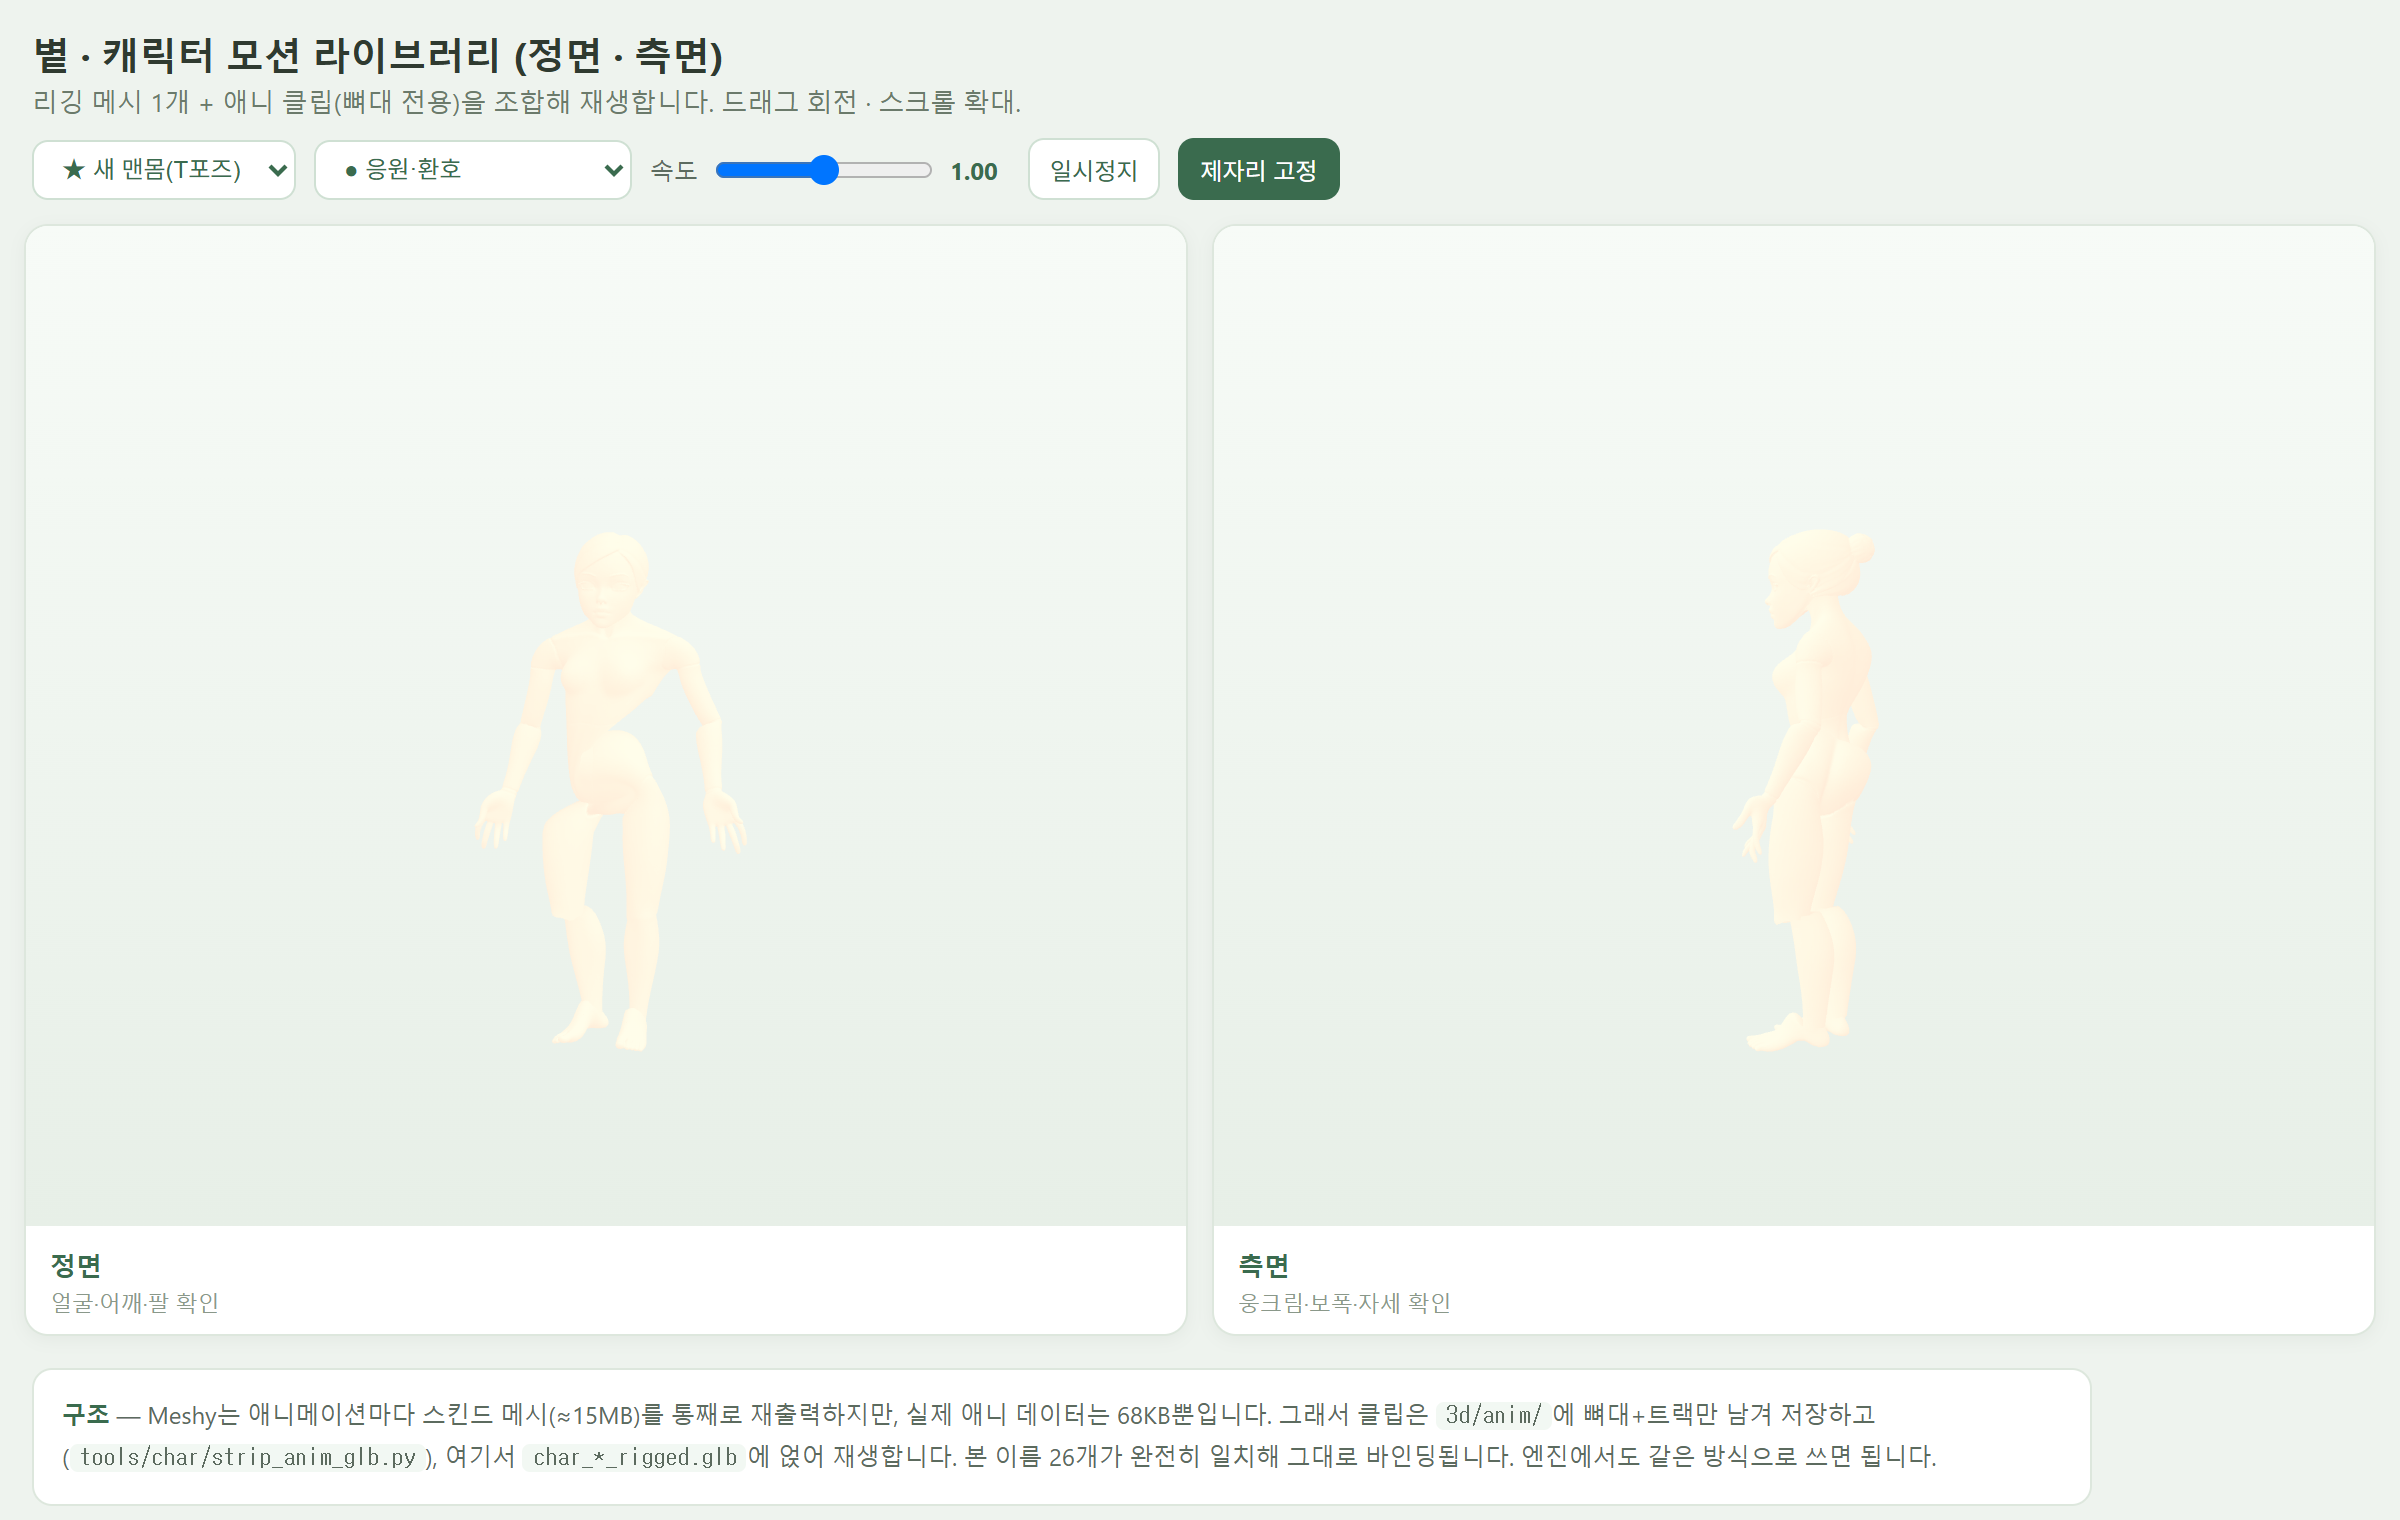
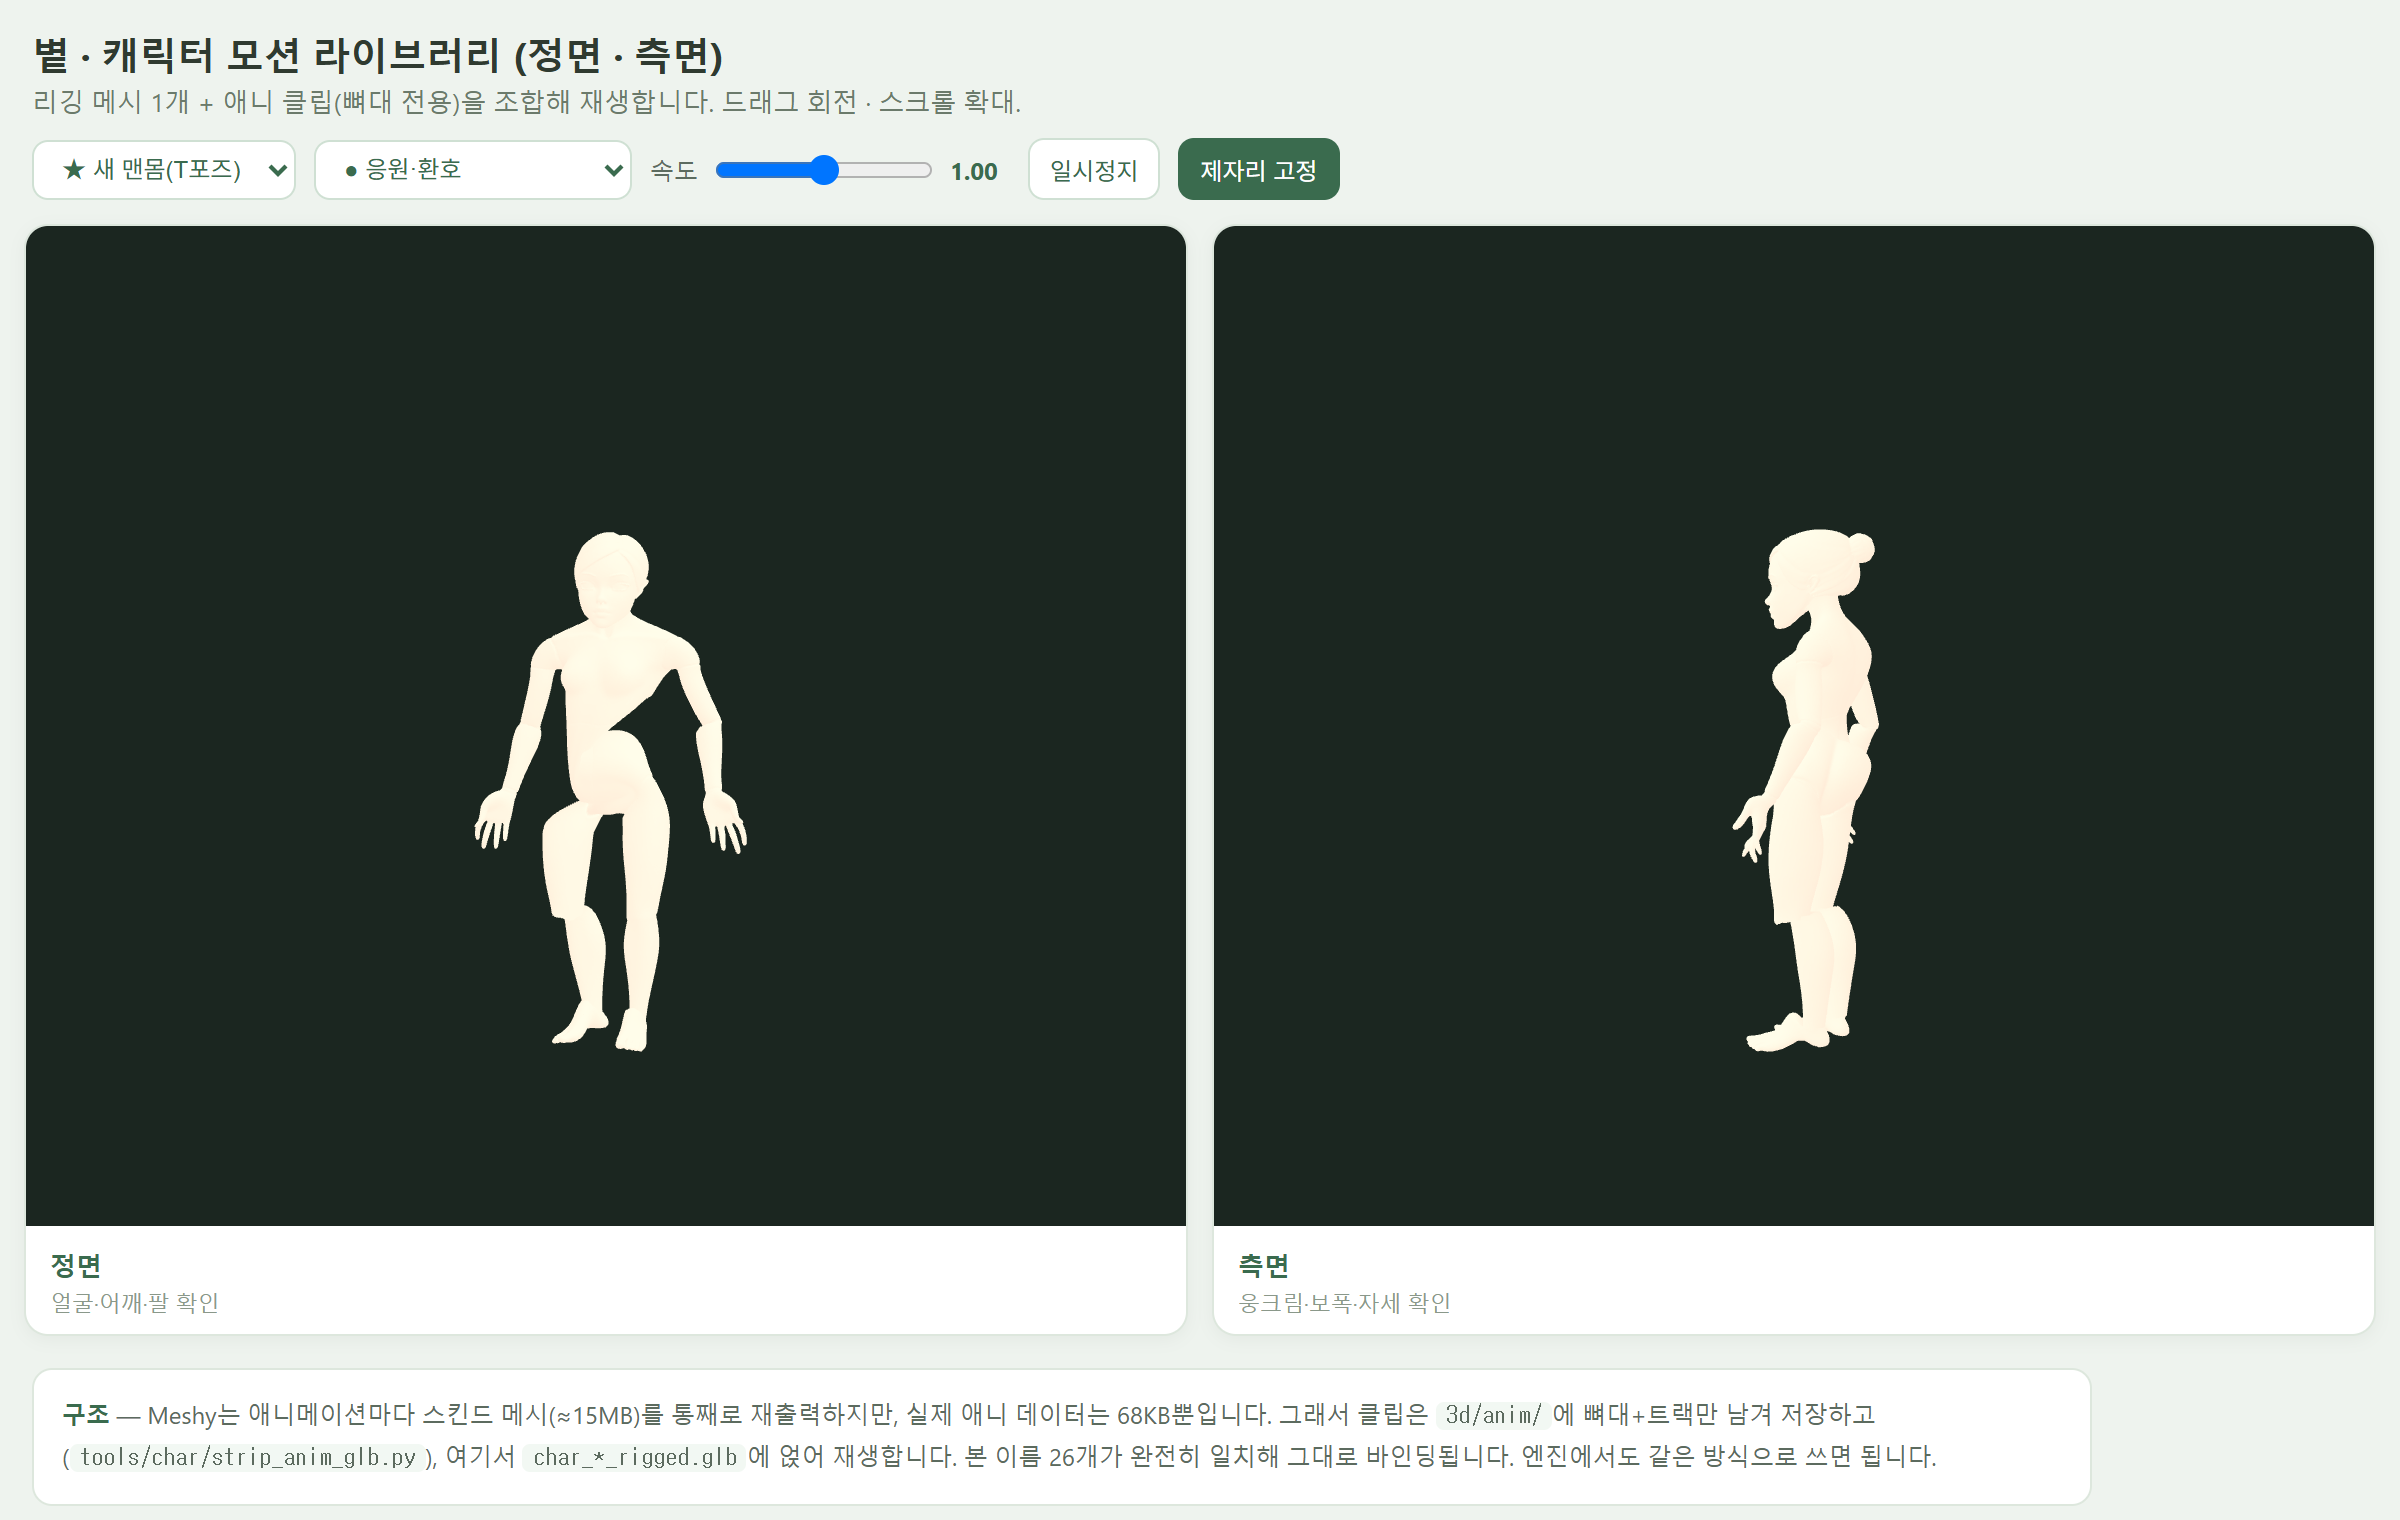
char: 시험 6차 — ⛔ 본판 못 됨. 기존은 5등신 치비인데 새 몸은 실사 비례(머리 2.7배 차)

diff --git a/assets/characters/_bodytest_compare.html b/assets/characters/_bodytest_compare.html
@@ -170,6 +170,11 @@ function makeView(id,mode){
   const r=new THREE.WebGLRenderer({canvas:cv,antialias:true,alpha:true});
   r.setPixelRatio(Math.min(devicePixelRatio,2));r.outputEncoding=THREE.sRGBEncoding;
   const sc=new THREE.Scene();
+  /* ★ [Char] 시험용 — 씬 배경을 «짙게» 둔다.
+     ⛔ 앞서 CSS 로 카드 배경만 바꿨는데 렌더러가 alpha:true 라 «캔버스는 그대로 투명»이었다.
+     ⇒ 살구색 맨몸이 연녹 바탕에 묻혀 내 배경 빼기가 «거의 못 봤다»(화소 5811 대 79594, 13배).
+     ⇒ ⇒ ★ 「몸매를 못 견준다」가 아니라 «못 보게 차려 놓은 것»이었다. 오늘 두 번째다. */
+  sc.background = new THREE.Color(0x1b2620);
   const cam=new THREE.PerspectiveCamera(32,1,0.01,5000);
   const ctr=new THREE.OrbitControls(cam,cv);ctr.enableDamping=true;
   sc.add(new THREE.AmbientLight(0xffffff,0.70));

diff --git a/tools/char/compare_silhouette.py b/tools/char/compare_silhouette.py
@@ -1,0 +1,90 @@
+# -*- coding: utf-8 -*-
+"""두 캐릭터의 **몸매**를 견준다 — 같은 클립·같은 시각으로 찍은 그림에서.
+
+2026-09-07 · [Char] · 크레딧 0
+
+■ 왜 이렇게 하나
+
+GLB 를 그대로 견줄 수 없다. **포즈가 다르기 때문**이다
+(기존은 A포즈 · 새 몸은 T포즈). 높이별 폭을 재면 「어깨」 띠가 서로 다른 데를 가리킨다.
+
+⇒ ★ 그래서 **뷰어에서 «같은 클립을 같은 시각으로» 얹어 찍은 그림**을 쓴다.
+  ⇒ 그러면 두 몸이 «같은 자세»다. 남는 차이가 곧 «몸매»다.
+
+■ ⛔ 이 자가 «못» 하는 것
+
+  · 「어느 쪽이 예쁜가」는 못 정한다. **어긋난 자리와 크기만** 낸다
+  · 기존 몸은 «옷·머리카락»을 입고 있다 ⇒ ★ 그 부피가 «몸매»로 잡힌다.
+    ⇒ ⇒ 그러니 「기존이 더 두껍다」가 나와도 그것이 «살»이라는 뜻이 아니다
+"""
+import os, sys
+try: sys.stdout.reconfigure(encoding='utf-8')
+except Exception: pass
+import numpy as np
+from PIL import Image
+
+
+def body_mask(path, x0=0.05, x1=0.45, y0=0.13, y1=0.82):
+    """캔버스 자리에서 «배경이 아닌» 화소를 낸다."""
+    a = np.asarray(Image.open(path).convert('RGB'), float)
+    h, w, _ = a.shape
+    c = a[int(h*y0):int(h*y1), int(w*x0):int(w*x1)]
+    bg = np.median(c.reshape(-1, 3), axis=0)
+    m = (np.abs(c - bg).max(axis=2) > 16)
+    # ⛔⛔ 처음엔 이대로 냈다 ⇒ 머리끝·발끝 폭이 «366»(판 전체 폭)으로 나왔다.
+    #   ★ 사람 머리 폭이 판 전체일 리 없다 ⇒ 파 보니 **카드 테두리 선**을 몸으로 잡고 있었다.
+    #   ⇒ ⇒ 「말이 되나」 칸이 또 잡았다. 안 뒀으면 IoU 0.217 을 «몸매 차이»로 냈을 것이다.
+    # ⇒ ✔ 가로로 «거의 꽉 찬» 줄은 몸이 아니다. 버린다.
+    full = m.sum(axis=1) > m.shape[1] * 0.85
+    m[full, :] = False
+    return m
+
+
+def norm(m):
+    """몸을 잘라내 «높이 400»으로 맞춘다 — 카메라 거리가 달라도 견줄 수 있게."""
+    ys, xs = np.nonzero(m)
+    if not len(ys): return None
+    cut = m[ys.min():ys.max()+1, xs.min():xs.max()+1]
+    im = Image.fromarray((cut*255).astype(np.uint8))
+    s = 400.0 / im.height
+    return np.asarray(im.resize((max(1, int(im.width*s)), 400), Image.NEAREST)) > 127
+
+
+def main():
+    args = [a for a in sys.argv[1:] if not a.startswith('--')]
+    if len(args) < 2:
+        print(__doc__); return 1
+    A, B = norm(body_mask(args[0])), norm(body_mask(args[1]))
+    if A is None or B is None:
+        print('⛔ 몸을 못 찾았다'); return 2
+    W = max(A.shape[1], B.shape[1])
+    def pad(m):
+        o = np.zeros((400, W), bool)
+        s = (W - m.shape[1]) // 2
+        o[:, s:s+m.shape[1]] = m
+        return o
+    A, B = pad(A), pad(B)
+    inter = (A & B).sum(); union = (A | B).sum()
+    # ★★ 「말이 되나」 칸 — 사람 실루엣이 네모 판을 꽉 채울 수는 없다
+    for nm, M in (('첫째', A), ('둘째', B)):
+        fill = M.sum() / M.size
+        if fill > 0.6:
+            print('  ⛔ %s 그림이 판의 %.0f%% 를 채운다 — 몸이 아니라 «판»을 잡았다' % (nm, fill*100))
+    print('■ %s  vs  %s' % (os.path.basename(args[0]), os.path.basename(args[1])))
+    print('  ★ 겹침(IoU) %.3f   — 1.0 이면 «똑같은 실루엣»' % (inter/max(union, 1)))
+    print('  가로 폭   %d  vs  %d  (높이를 400 으로 맞춘 뒤)' % (A.sum(1).max(), B.sum(1).max()))
+    print()
+    print('  높이대별 폭 — 0.00 이 머리끝, 1.00 이 발끝')
+    for i in range(10):
+        a0, a1 = int(400*i/10), int(400*(i+1)/10)
+        wa = int(A[a0:a1].sum(1).max()); wb = int(B[a0:a1].sum(1).max())
+        d = (wb-wa)/max(wa, 1)*100
+        bar = '#' * min(40, int(abs(d)/2))
+        print('    %.1f~%.1f   %3d  vs %3d   %+6.1f%%  %s' % (i/10, (i+1)/10, wa, wb, d, bar))
+    print()
+    print('⛔ 이 자는 「어느 쪽이 낫나」를 못 정한다. ★ 기존 쪽은 «옷·머리카락»을 입고 있다.')
+    return 0
+
+
+if __name__ == '__main__':
+    sys.exit(main())

diff --git a/docs/handoff/char-bodytest-6.md b/docs/handoff/char-bodytest-6.md
@@ -1,0 +1,100 @@
+# 맨몸 시험 6차 — **본판이 못 된다. 몸매가 「치비」가 아니다**
+
+2026-09-07 · [Char] · **크레딧 0** · 총괄 물음 ①~④
+
+## ■ 한 줄
+
+⛔⛔ **다시 뽑아야 한다.** 기존 8캐릭은 **5등신 치비**인데 시험 몸은 **8등신 실사 비례**다.
+⇒ 옷을 입혀도 기존 캐릭터 옆에 서면 **딴 사람**이다.
+
+## ■ ① 몸매 — ⛔ **너무 다르다**
+
+포즈가 다르면 못 견준다(A포즈 대 T포즈). ⇒ ★ 그래서 **같은 클립을 «같은 시각»으로 얹어 찍은 그림**을 썼다.
+그러면 두 몸이 같은 자세이고, 남는 차이가 곧 몸매다.
+
+    높이를 400 으로 맞춘 뒤 · 0.0 이 머리끝
+      높이대        기존   새몸    차이
+      0.0~0.1(머리)  102 vs  38   ⛔ ★ 기존 머리가 «2.7배» 크다
+      0.1~0.2        147 vs  88
+      0.2~0.3        143 vs 179
+      0.3~0.4        199 vs 125
+      0.4~0.5        188 vs  61
+      ★ 겹침(IoU) 0.472   — 1.0 이면 «똑같은 실루엣»
+
+### ★★★ 그리고 이것은 **이미 적혀 있었다**
+
+    rescale_char_glb.py 첫머리
+      "여캐 -> 1.40m, 남캐 -> 1.50m
+       (실사람 키보다 작게 잡는다 — **머리가 큰 치비**라 실키로 두면 방이 좁아 보인다)"
+
+⇒ ★ 곧 이 판의 캐릭터는 **의도적으로 치비**다. 새 몸은 그 규약 밖이다.
+⇒ ⇒ ⛔ 내가 1차에서 「키 1.7000 ✔ 기존과 같다」고 냈는데, **키가 같은 것과 «비례»가 같은 것은 다르다.**
+   ⇒ ★★ 오늘 여러 번 겪은 **「자가 «다른 것»을 쟀다」**를 또 만난 자리다.
+
+## ■ ③ 손가락 — ⛔ **클립이 손가락을 «안 움직인다»**
+
+기존 24본을 열어 이름을 봤다:
+
+    Hips · LeftUpLeg · LeftLeg · LeftFoot · LeftToeBase
+    RightUpLeg · RightLeg · RightFoot · RightToeBase
+    Spine02 · Spine01 · Spine
+    LeftShoulder · LeftArm · LeftForeArm · ★ LeftHand
+    RightShoulder · RightArm · RightForeArm · ★ RightHand
+    neck · Head · head_end · headfront
+
+⇒ 손 관련 뼈는 **`LeftHand`·`RightHand` 둘뿐.** 손가락 뼈가 **없다.**
+⇒ ⇒ ★ 새 몸에 손가락이 «있어도» 안 움직인다. **면 수만 늘고 통짜로 돈다.**
+⇒ ⇒ ⇒ 다시 뽑을 때 **「손은 뭉쳐도 된다」**고 이르면 면이 준다.
+
+## ■ ② 면 수 — ✔ **문제가 아니다. 게임은 `lq` 를 쓴다**
+
+    room_view.js:7291   const CHAR_MESH = '../../assets/characters/3d/lq';
+
+    기존 원본  삼각 231,639 · 꼭짓점 122,669 · 14.9MB
+    기존 lq    삼각  23,162 · 꼭짓점  15,832 ·  2.4MB   ⇐ ★ 게임이 «이것»을 읽는다. 1/10
+    새 몸      삼각 126,371 · 꼭짓점 339,292 · 19.2MB
+
+⇒ ★ 삼각 수는 기존보다 **오히려 가볍다.**
+⚠ 다만 **꼭짓점이 기존의 2.8배**다. UV·법선이 없어 안 합쳐진 탓으로 «보이나» ⛔ **짐작이라 단정 안 한다.**
+
+### ⚠ 진짜 걸림돌은 따로 있다
+
+`make_lq_glb.py` 가 쓰는 **gltf-transform 이 지금 없다**(`npx` ✗ · `node_modules/.bin` ✗).
+⇒ ★ **lq 를 못 만들면 게임에 못 올린다.** 기존 lq 37개는 «한때» 돌았을 때 만든 것이다.
+
+## ■ ④ ⇒ **다시 뽑을 때 이르실 것**
+
+    ★ 머리를 «크게» — 5등신 치비. 기존 8캐릭과 같은 비례
+    ★ 손은 «뭉쳐도» 된다 — 클립이 손가락을 안 움직인다
+    ⚠ 남캐도 «같은 지시»로. 안 그러면 같은 흠을 그대로 갖는다
+
+## ■ ⛔ 이 걸음에서 «또» 두 번 물렸다
+
+### ① 견주는 자가 **카드 테두리**를 몸으로 잡았다
+
+머리끝 폭이 **366**(판 전체 폭)으로 나왔다.
+⇒ ★ 「사람 머리 폭이 판 전체일 리 없다」로 잡았다. **안 뒀으면 IoU 0.217 을 «몸매 차이»로 냈을 것이다.**
+⇒ ✔ 고침: 가로로 85% 넘게 찬 줄은 몸이 아니다. 버린다.
+
+### ② ★★ 살구색 몸이 연녹 바탕에 묻혀 자가 **거의 못 봤다**
+
+화소 **5,811 대 79,594 — 13배**. 앞서 CSS 로 카드 배경만 바꿨는데
+⛔ **렌더러가 `alpha:true` 라 캔버스는 그대로 투명이었다.**
+
+⇒ ✔ 씬 배경을 짙게(`sc.background`) 두니 **IoU 0.046 → 0.472**.
+  ⇒ 같은 물건, 같은 자, **찍는 자리만** 바꿨다.
+
+> ★★★ **「몸매를 못 견준다」가 아니라 «못 보게 차려 놓은 것»이었다. 오늘 «두 번째»다.**
+> ⇒ 4차에서 「접힘이 안 보인다」가 같은 것이었다.
+> ⇒ ⇒ ★ 물건을 재기 전에 **«찍는 자리»를 먼저 재야 한다.**
+
+## ■ ⇒ 값
+
+    다시 뽑기  여 20 + 남 20 = 40
+    ⇒ ★ 잘못 만든 것을 나중에 버리는 것보다 싸다. 지금 알아서 다행이다
+
+## ■ ⛔ 이 글이 «못» 하는 것
+
+  · 「치비로 뽑아 달라면 메시가 알아듣나」 — 모른다. 안 해 봤다
+  · 꼭짓점이 2.8배인 «까닭» — 짐작만 있다. 안 팠다
+  · gltf-transform 이 없어진 «까닭» — 모른다
